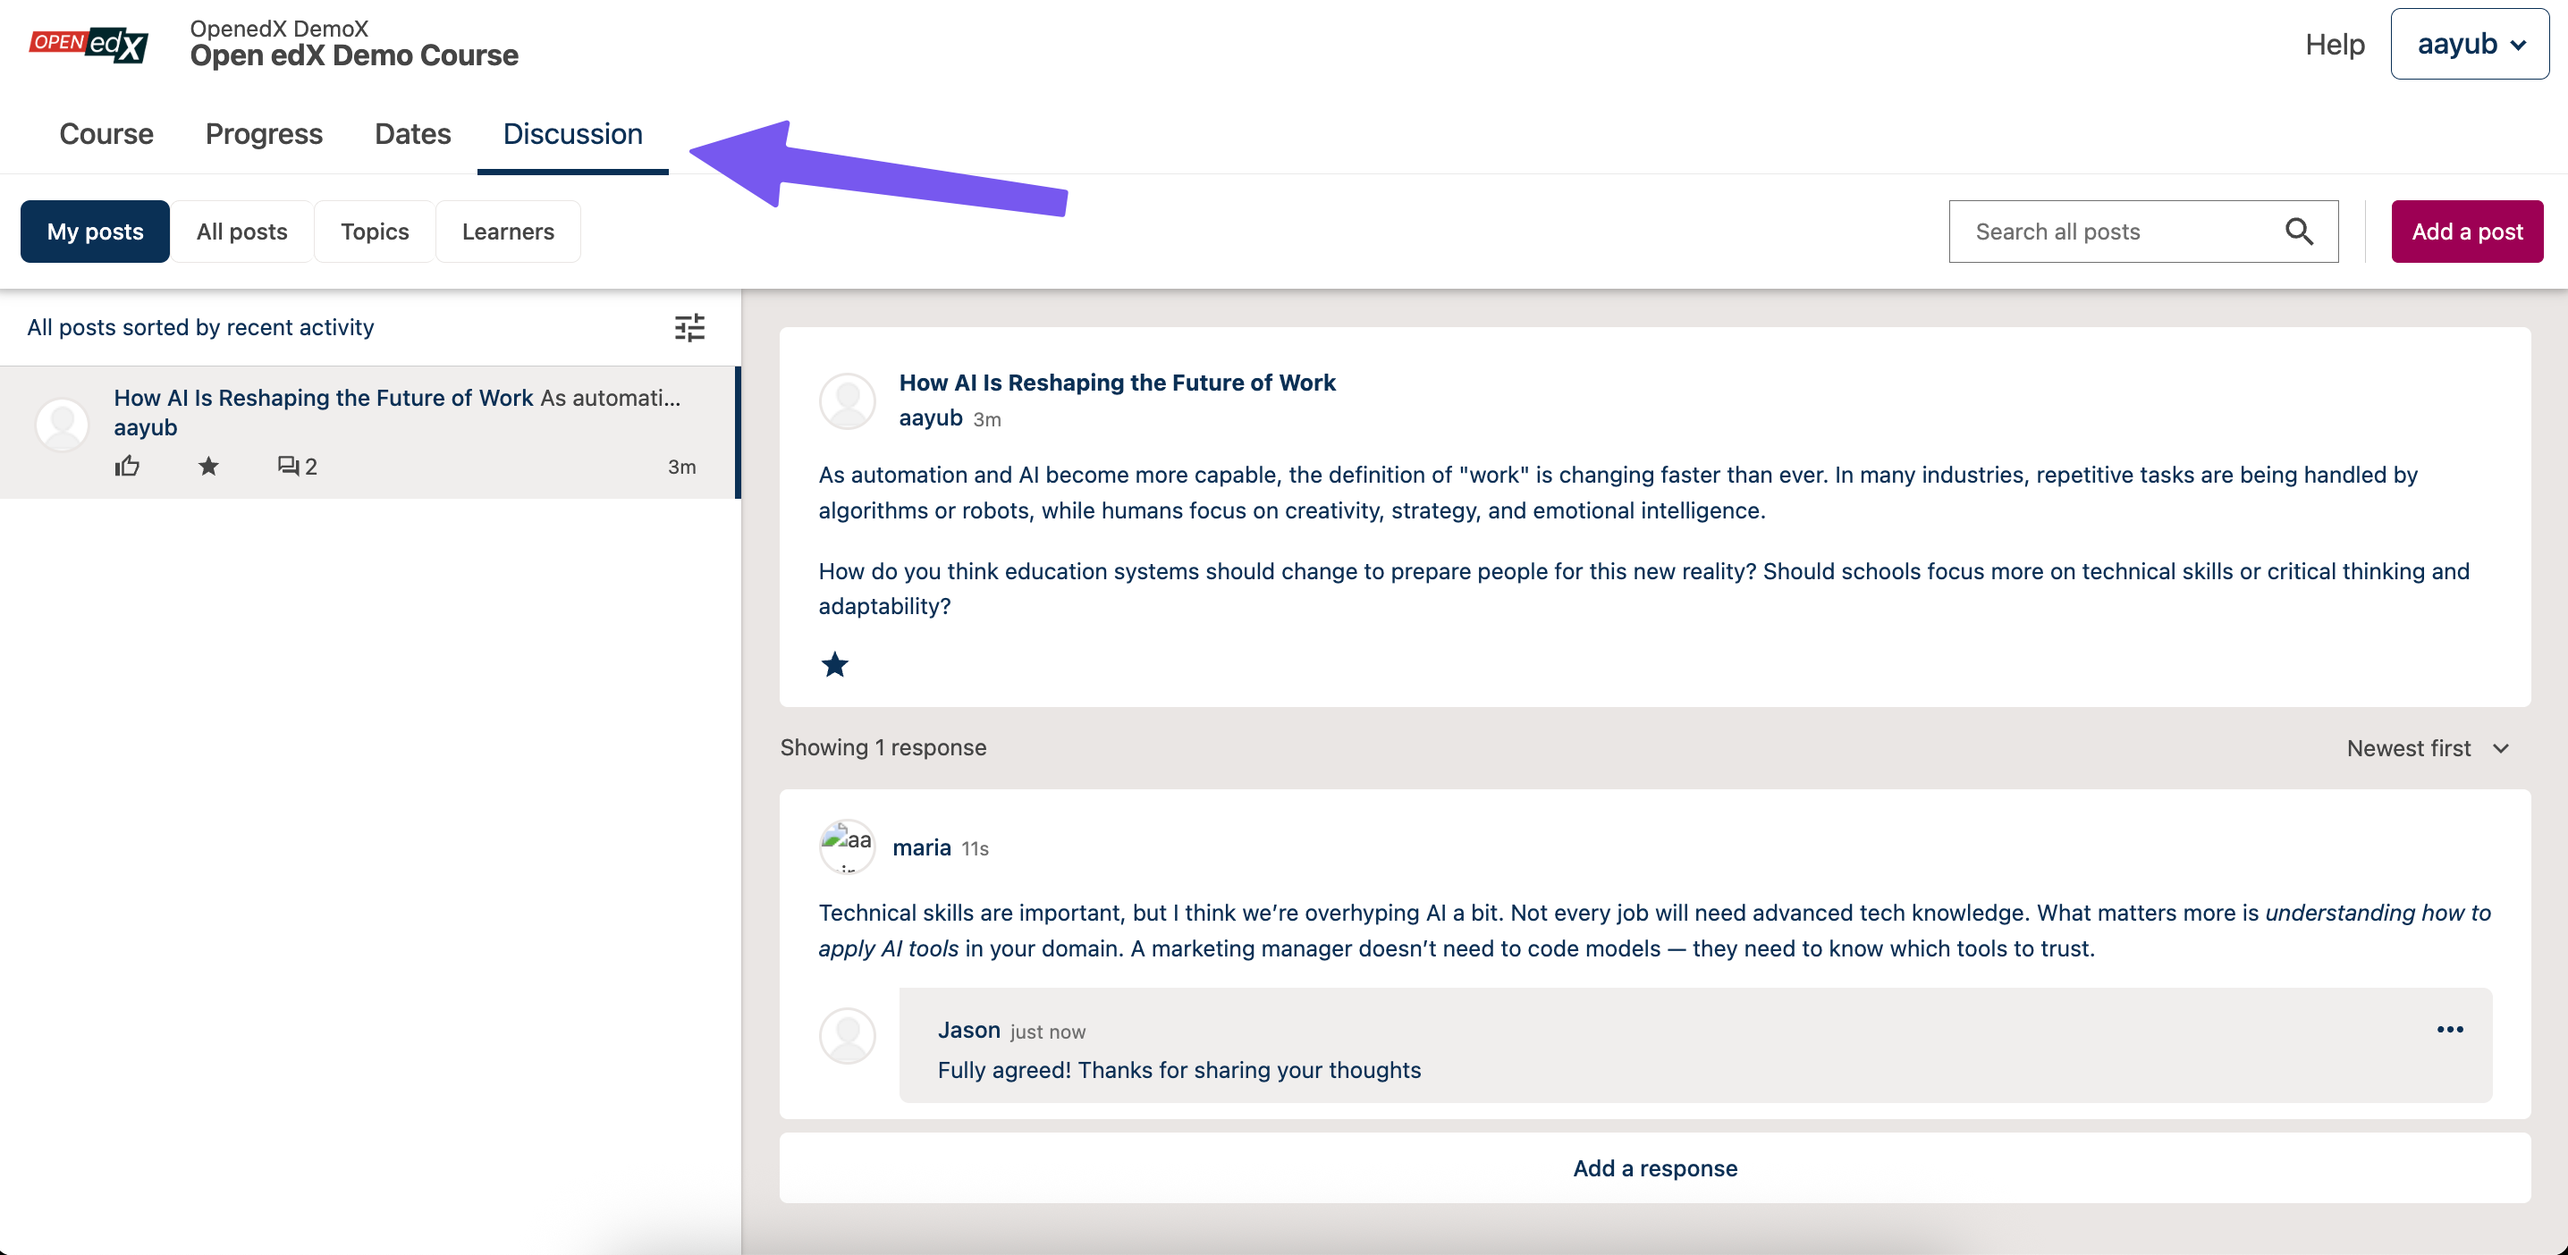
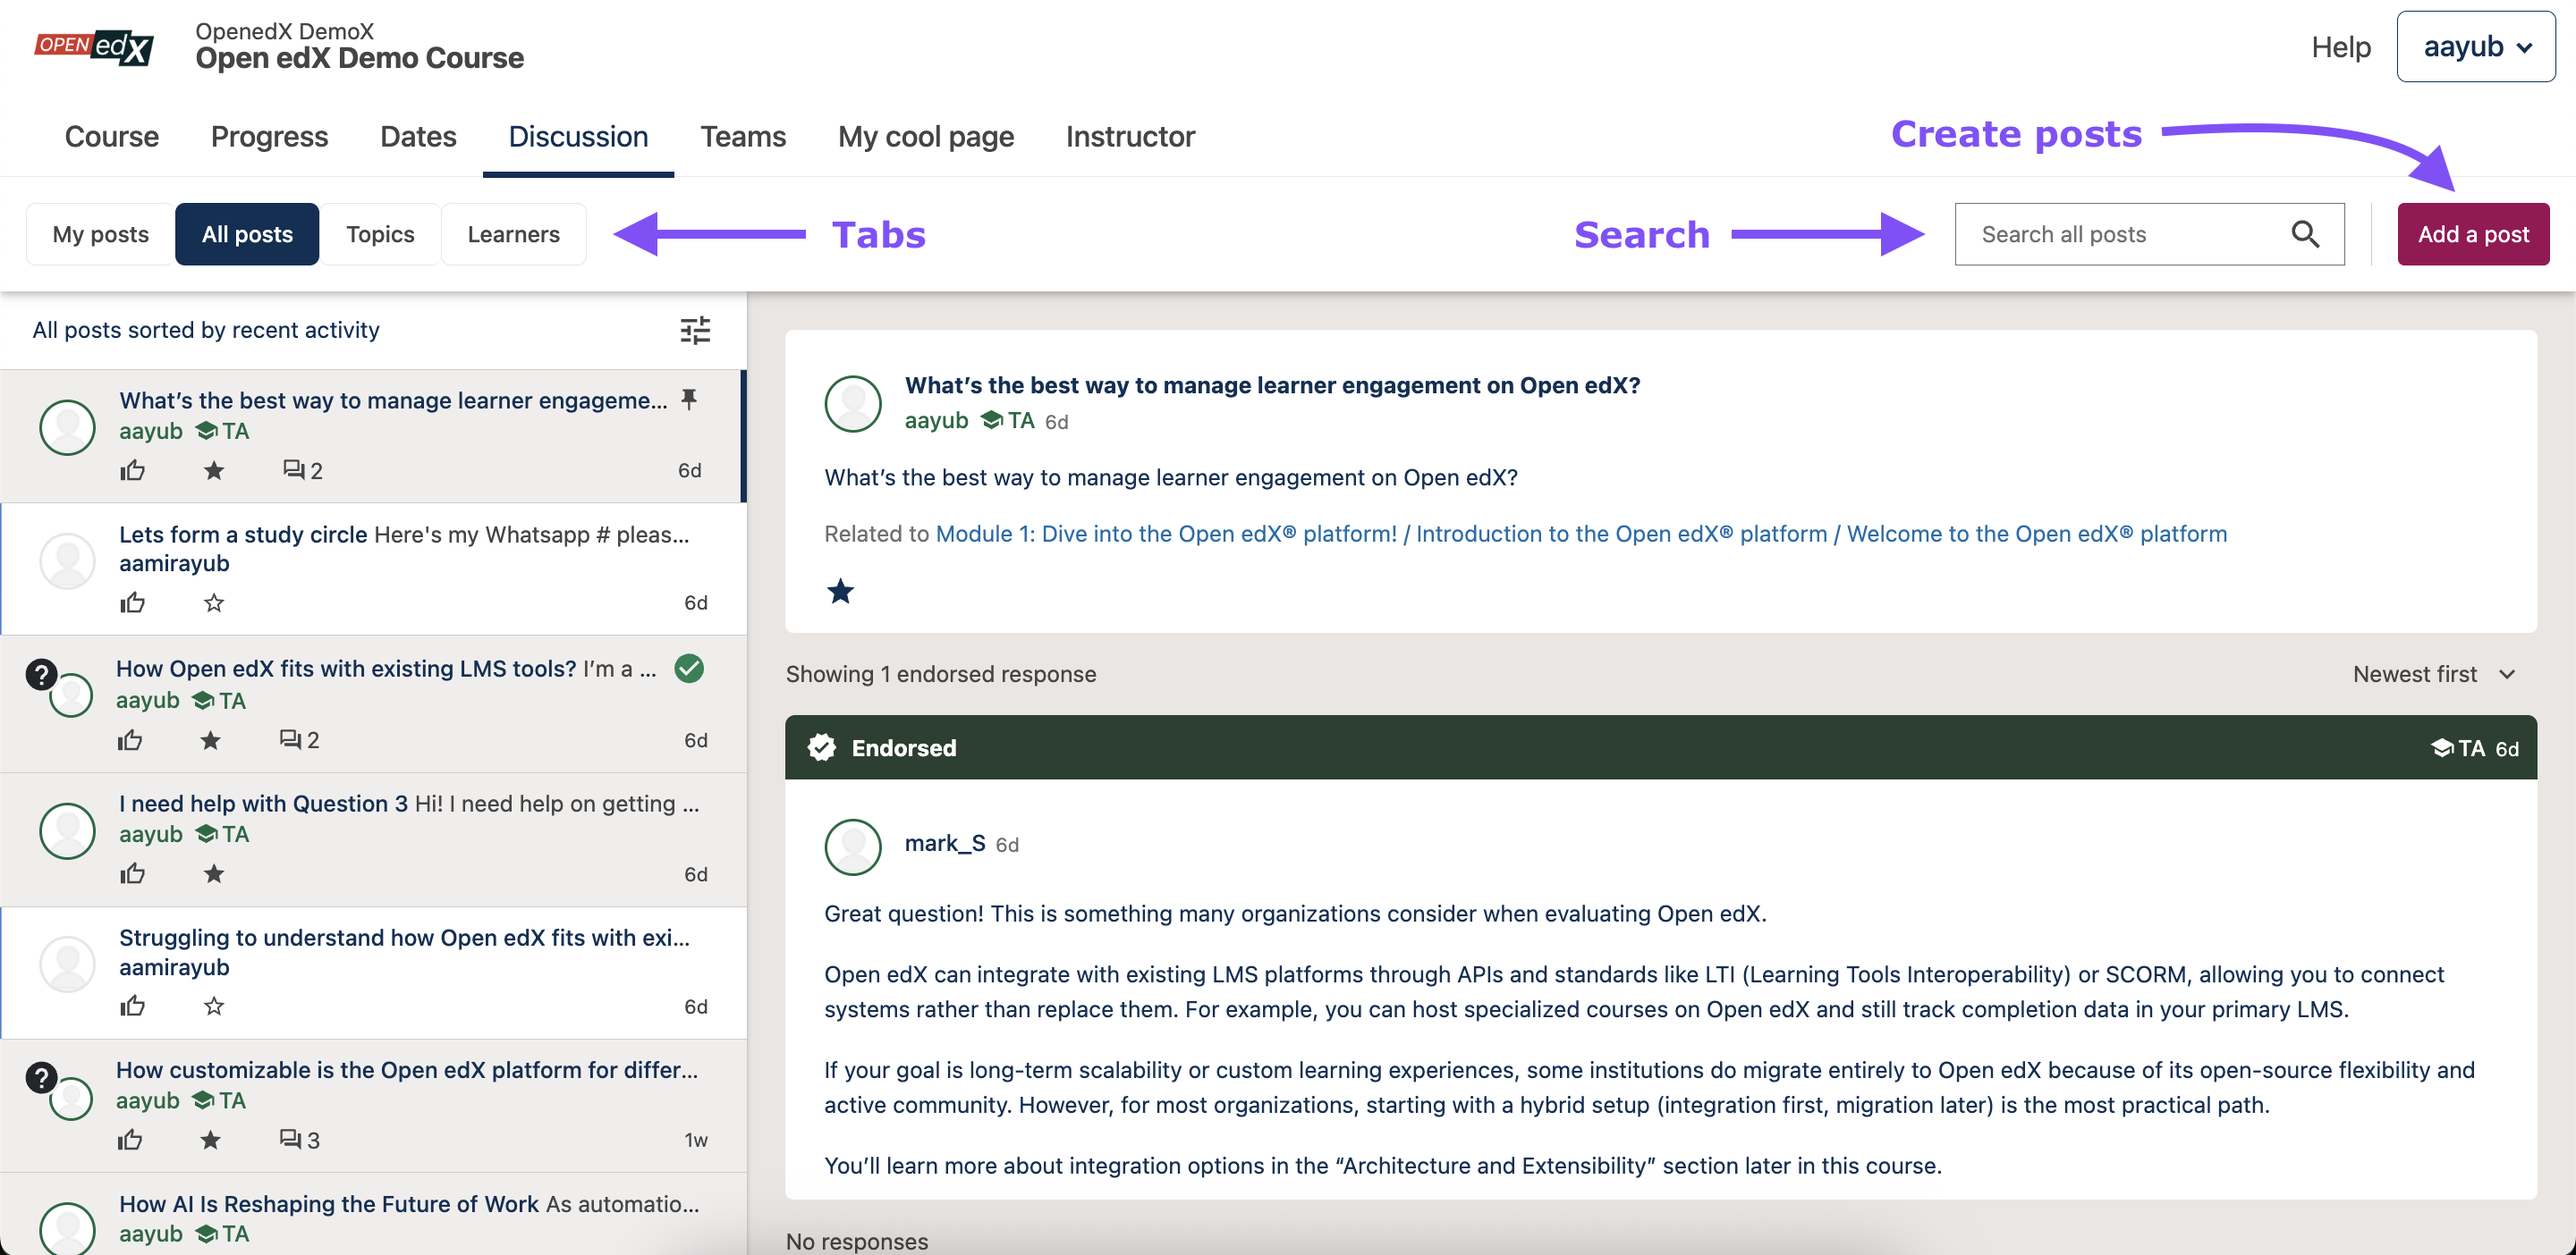
Fixed some errors

diff --git a/source/learners/sfd_discussions/explore_discussions.rst b/source/learners/sfd_discussions/explore_discussions.rst
@@ -35,7 +35,7 @@ When you open the Discussions tab in your course, you see four tabs at the top, 
    want to focus on the part of the course you are studying.
 
 
-.. figure:: /images/learners/discussion_page.png
+.. figure:: /images/learners/Discussions_tabs.png
    :alt: Screenshot of the discussion page
    :width: 600px
    :align: center
